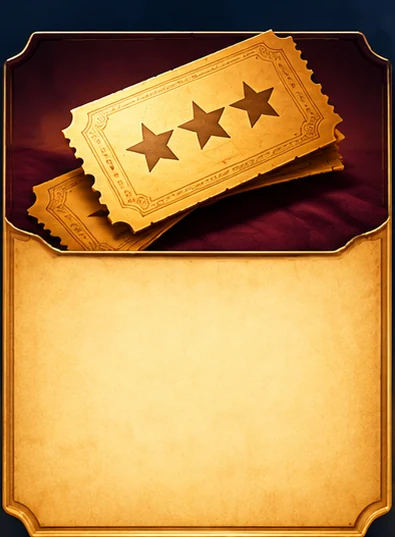
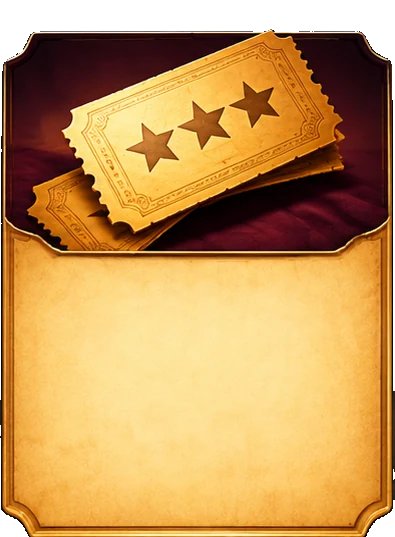
fix: kart dis cerceve haresi temizlendi

diff --git a/assets/stil.css b/assets/stil.css
@@ -285,13 +285,13 @@ p{margin:0}
 .kapi{
   position:relative;display:block;
   width:100%;aspect-ratio:auto;padding:0;
-  background:transparent;border:0;
+  background:transparent;border:none;box-shadow:none;
   overflow:visible;
-  transition:transform var(--gecis),box-shadow var(--gecis);
+  transition:transform var(--gecis);
 }
 .kapi:hover{
   transform:translateY(-8px);
-  box-shadow:0 26px 50px rgba(0,0,0,.42);
+  box-shadow:none;
 }
 .kapi-art{
   position:relative;z-index:0;
@@ -300,7 +300,7 @@ p{margin:0}
   border:0;
   transition:transform .6s cubic-bezier(.22,.61,.36,1),filter var(--gecis);
 }
-.kapi:hover .kapi-art{filter:brightness(1.06)}
+.kapi:hover .kapi-art{filter:drop-shadow(0 10px 22px rgba(0,0,0,.55)) drop-shadow(0 0 12px rgba(212,175,55,.28))}
 .kapi-metin{
   position:absolute;z-index:1;left:8%;right:8%;bottom:2.6rem;height:48%;
   display:flex;flex-direction:column;gap:.3rem;align-items:center;justify-content:center;text-align:center;
